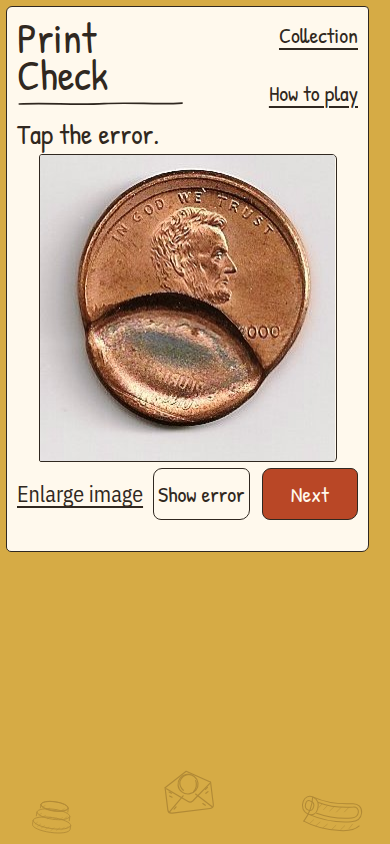
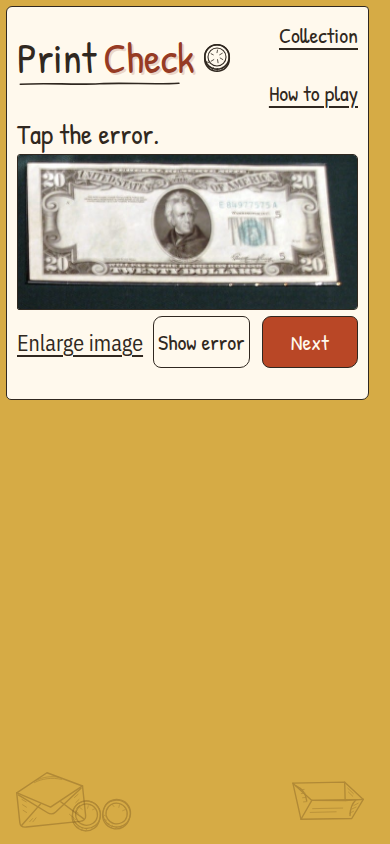
Refine title and asymmetric artwork

diff --git a/styles.css b/styles.css
@@ -62,14 +62,10 @@ body {
   opacity: 0.38;
   user-select: none;
 }
-.decoration-stack { top: 5%; left: 17px; width: 84px; transform: rotate(7deg); }
-.decoration-coins { top: 16%; right: -5px; width: 126px; transform: rotate(-9deg); }
-.decoration-envelope { top: 36%; left: -10px; width: 148px; transform: rotate(-6deg); }
-.decoration-roller { top: 27%; right: 12px; width: 106px; transform: rotate(8deg); }
-.decoration-coins-loose { top: 65%; left: 21px; width: 98px; transform: rotate(11deg); }
-.decoration-roll { top: 58%; right: -18px; width: 152px; transform: rotate(-7deg); }
-.decoration-stack-tall { bottom: -1%; left: 53px; width: 88px; transform: rotate(-6deg); }
-.decoration-fan { right: 15px; bottom: 12%; width: 116px; transform: rotate(5deg); }
+.decoration-envelope { bottom: 1.5%; left: -6px; width: 176px; transform: rotate(-5deg); }
+.decoration-coins-loose { bottom: -0.5%; left: 86px; width: 126px; transform: rotate(9deg); }
+.decoration-folded-bill { top: 8%; right: -12px; width: 158px; transform: rotate(7deg); }
+.decoration-stack { top: 39%; left: 25px; width: 90px; transform: rotate(-4deg); }
 
 button, a { font: inherit; }
 button { color: inherit; }
@@ -117,13 +113,42 @@ button:focus-visible, a:focus-visible, [tabindex]:focus-visible, summary:focus-v
   line-height: 0.88;
   text-decoration: none;
 }
-.site-name svg { width: 100%; height: 9px; margin-top: 5px; overflow: visible; }
+.title-line { display: inline-flex; align-items: center; gap: 9px; }
+.title-words { display: inline-flex; gap: 0.17em; white-space: nowrap; }
+.title-print { color: var(--ink); }
+.title-check { position: relative; display: inline-block; color: #963b24; }
+.title-check-ghost {
+  position: absolute;
+  inset: 0;
+  z-index: 0;
+  color: #963b24;
+  opacity: 0.18;
+  transform: translate(2px, 2px);
+  pointer-events: none;
+}
+.title-check-front { position: relative; z-index: 1; }
+.title-coin {
+  width: 43px;
+  height: 43px;
+  flex: 0 0 auto;
+  transform-origin: 50% 50%;
+  pointer-events: none;
+  user-select: none;
+}
+.title-coin.is-flipping { animation: title-coin-flip 400ms ease-in-out; }
+.site-name .title-underline { width: 74%; height: 9px; margin-top: 4px; overflow: visible; }
 .site-name path {
   fill: none;
   stroke: currentColor;
   stroke-width: 1.6;
   stroke-linecap: round;
   vector-effect: non-scaling-stroke;
+}
+
+@keyframes title-coin-flip {
+  0% { transform: rotateY(0deg); }
+  48% { transform: rotateY(90deg) scale(0.94); }
+  100% { transform: rotateY(360deg); }
 }
 
 .site-header nav {
@@ -483,26 +508,18 @@ dialog::backdrop { background: rgba(48, 40, 32, 0.5); }
 }
 
 @media (min-width: 1500px) {
-  .decoration-stack { left: 28px; width: 106px; }
-  .decoration-coins { right: -2px; width: 152px; }
-  .decoration-envelope { left: -5px; width: 166px; }
-  .decoration-roller { right: 25px; width: 128px; }
-  .decoration-coins-loose { left: 36px; width: 122px; }
-  .decoration-roll { right: -20px; width: 170px; }
-  .decoration-stack-tall { left: 76px; width: 110px; }
-  .decoration-fan { right: 25px; width: 138px; }
+  .decoration-envelope { left: 8px; width: 202px; }
+  .decoration-coins-loose { left: 117px; width: 142px; }
+  .decoration-folded-bill { right: 8px; width: 184px; }
+  .decoration-stack { top: 43%; left: 56px; width: 108px; }
 }
 
 @media (max-width: 1340px) and (min-width: 761px) {
   .decoration { opacity: 0.36; }
-  .decoration-stack { left: 4px; width: 76px; }
-  .decoration-coins { right: 3px; width: 80px; }
-  .decoration-envelope { left: 2px; width: 88px; }
-  .decoration-roller { right: 1px; width: 92px; }
-  .decoration-coins-loose,
-  .decoration-roll { display: none; }
-  .decoration-stack-tall { left: 5px; width: 76px; }
-  .decoration-fan { right: 1px; width: 88px; }
+  .decoration-envelope { left: -3px; width: 105px; }
+  .decoration-coins-loose { bottom: 0; left: 56px; width: 76px; }
+  .decoration-folded-bill { right: -3px; width: 96px; }
+  .decoration-stack { top: 42%; left: 7px; width: 68px; }
 }
 
 @media (max-width: 1000px) and (min-width: 681px) {
@@ -532,6 +549,9 @@ dialog::backdrop { background: rgba(48, 40, 32, 0.5); }
   }
   .site-header { min-height: 74px; align-items: center; gap: 12px; padding-top: max(4px, env(safe-area-inset-top)); }
   .site-name { min-height: 60px; font-size: 42px; }
+  .title-line { gap: 6px; }
+  .title-coin { width: 34px; height: 34px; }
+  .site-name .title-underline { width: 76%; margin-top: 3px; }
   .site-header nav { gap: 12px; flex-wrap: wrap; justify-content: flex-end; }
   .site-header nav a, .nav-button { font-size: 22px; }
   .game-screen { padding-top: 2px; }
@@ -583,12 +603,12 @@ dialog::backdrop { background: rgba(48, 40, 32, 0.5); }
 @media (max-width: 760px) {
   .page-decorations { position: absolute; z-index: 0; }
   .decoration { display: none; opacity: 0.38; }
-  .decoration-stack,
   .decoration-envelope,
-  .decoration-roll { display: block; }
-  .decoration-stack { top: auto; bottom: 8px; left: 24px; width: 58px; transform: rotate(8deg); }
-  .decoration-envelope { top: auto; bottom: 29px; left: calc(50% - 31px); width: 63px; transform: rotate(-7deg); }
-  .decoration-roll { top: auto; right: 5px; bottom: 3px; left: auto; width: 79px; transform: rotate(6deg); }
+  .decoration-coins-loose,
+  .decoration-folded-bill { display: block; }
+  .decoration-envelope { top: auto; bottom: 13px; left: 5px; width: 92px; transform: rotate(-6deg); }
+  .decoration-coins-loose { top: auto; bottom: 2px; left: 64px; width: 70px; transform: rotate(9deg); }
+  .decoration-folded-bill { top: auto; right: 4px; bottom: 13px; left: auto; width: 88px; transform: rotate(6deg); }
 }
 
 @media (max-height: 720px) {
@@ -600,6 +620,7 @@ dialog::backdrop { background: rgba(48, 40, 32, 0.5); }
 
 @media (prefers-reduced-motion: reduce) {
   *, *::before, *::after { scroll-behavior: auto !important; transition-duration: 0.001ms !important; }
+  .title-coin.is-flipping { animation: none; }
 }
 
 @media print {

diff --git a/tests/data.test.js b/tests/data.test.js
@@ -85,7 +85,7 @@ test('play screen is immediate and contains no fixed-session or scoring language
   assert.match(visible, />Tap the error\.</);
   assert.match(visible, />Next</);
   assert.equal(/Next (?:note|piece)/i.test(visible), false);
-  assert.equal(/>Check<|>Hint<|Zoom in|Zoom out|Reset view|number-grid|margin-doodle/i.test(visible), false);
+  assert.equal(/<button[^>]*>\s*(?:Check|Hint)\s*<|Zoom in|Zoom out|Reset view|number-grid|margin-doodle/i.test(visible), false);
   assert.match(visible, /Try another spot/);
   assert.match(visible, /Enlarge image/);
   assert.match(visible, /You found it!/);
@@ -120,17 +120,13 @@ test('the game reserves response space and uses measured viewport height', async
   assert.equal(/overflow:\s*hidden[^;]*;\s*\/\* page/i.test(styles), false);
 });
 
-test('the eight money-production drawings use the requested ink and remain inert', async () => {
+test('the asymmetric money drawings use the requested ink and remain inert', async () => {
   const { access, readFile } = await import('node:fs/promises');
   const artFiles = [
     'coin-stack.svg',
-    'tall-coin-stack.svg',
-    'overlapping-coins.svg',
     'loose-coins.svg',
-    'rolled-bill.svg',
-    'bill-fan.svg',
     'coin-envelope.svg',
-    'printing-roller.svg',
+    'folded-bill.svg',
   ];
   for (const file of artFiles) {
     await access(new URL(`../assets/art/${file}`, import.meta.url));
@@ -144,7 +140,27 @@ test('the eight money-production drawings use the requested ink and remain inert
   assert.match(styles, /opacity:\s*0\.38/);
   assert.match(styles, /pointer-events:\s*none/);
   assert.match(html, /aria-hidden="true"/);
-  assert.match(styles, /\.decoration-stack,\s*\n\s*\.decoration-envelope,\s*\n\s*\.decoration-roll \{ display: block; \}/);
+  assert.equal((html.match(/class="decoration /g) ?? []).length, 8);
+  assert.match(styles, /\.decoration-envelope \{ bottom:\s*1\.5%; left:\s*-6px;/);
+  assert.match(styles, /\.decoration-coins-loose \{ bottom:\s*-0\.5%; left:\s*86px;/);
+  assert.match(styles, /\.decoration-folded-bill \{ top:\s*8%; right:\s*-12px;/);
+  assert.match(styles, /\.decoration-stack \{ top:\s*39%; left:\s*25px;/);
+});
+
+test('the title uses two ink colors and a reduced-motion-safe Next flip', async () => {
+  const { access, readFile } = await import('node:fs/promises');
+  await access(new URL('../assets/art/title-coin.svg', import.meta.url));
+  const styles = await readFile(new URL('../styles.css', import.meta.url), 'utf8');
+  const html = `${await readFile(new URL('../index.html', import.meta.url), 'utf8')}\n${await readFile(new URL('../notes.html', import.meta.url), 'utf8')}`;
+  const scripts = `${await readFile(new URL('../src/game.js', import.meta.url), 'utf8')}\n${await readFile(new URL('../src/collection.js', import.meta.url), 'utf8')}`;
+  assert.match(html, /class="title-print">Print</);
+  assert.match(html, /class="title-check-front">Check</);
+  assert.match(styles, /\.title-check[^}]*color:\s*#963b24/s);
+  assert.match(styles, /translate\(2px, 2px\)/);
+  assert.match(styles, /animation:\s*title-coin-flip 400ms/);
+  assert.match(styles, /@media \(prefers-reduced-motion: reduce\)[\s\S]*\.title-coin\.is-flipping \{ animation:\s*none; \}/);
+  assert.match(scripts, /matchMedia\('\(prefers-reduced-motion: reduce\)'\)/);
+  assert.match(scripts, /classList\.add\('is-flipping'\)/);
 });
 
 test('museum crops have honest source wording and crop-aware enlargement', async () => {

diff --git a/index.html b/index.html
@@ -8,25 +8,24 @@
     <meta property="og:title" content="Print Check" />
     <meta property="og:description" content="Spot the error in real U.S. coins and paper currency." />
     <title>Print Check - Spot the error</title>
-    <link rel="stylesheet" href="styles.css?v=19" />
+    <link rel="stylesheet" href="styles.css?v=20" />
   </head>
   <body>
     <div class="page-decorations" aria-hidden="true">
-      <img class="decoration decoration-stack" src="assets/art/coin-stack.svg" alt="" />
-      <img class="decoration decoration-stack-tall" src="assets/art/tall-coin-stack.svg" alt="" />
-      <img class="decoration decoration-coins" src="assets/art/overlapping-coins.svg" alt="" />
-      <img class="decoration decoration-coins-loose" src="assets/art/loose-coins.svg" alt="" />
-      <img class="decoration decoration-roll" src="assets/art/rolled-bill.svg" alt="" />
-      <img class="decoration decoration-fan" src="assets/art/bill-fan.svg" alt="" />
       <img class="decoration decoration-envelope" src="assets/art/coin-envelope.svg" alt="" />
-      <img class="decoration decoration-roller" src="assets/art/printing-roller.svg" alt="" />
+      <img class="decoration decoration-coins-loose" src="assets/art/loose-coins.svg" alt="" />
+      <img class="decoration decoration-folded-bill" src="assets/art/folded-bill.svg" alt="" />
+      <img class="decoration decoration-stack" src="assets/art/coin-stack.svg" alt="" />
     </div>
     <div class="page-shell">
       <header class="site-header">
         <a class="site-name" href="index.html">
-          <span>Print Check</span>
-          <svg viewBox="0 0 150 9" aria-hidden="true" preserveAspectRatio="none">
-            <path d="M2 5 C28 3.7 52 6.2 78 4.6 C103 3.1 126 5.8 148 4.1" />
+          <span class="title-line">
+            <span class="title-words"><span class="title-print">Print</span> <span class="title-check"><span class="title-check-ghost" aria-hidden="true">Check</span><span class="title-check-front">Check</span></span></span>
+            <img class="title-coin" src="assets/art/title-coin.svg" alt="" aria-hidden="true" />
+          </span>
+          <svg class="title-underline" viewBox="0 0 150 9" aria-hidden="true" preserveAspectRatio="none">
+            <path d="M3 5.3 C27 3.6 51 6.1 75 4.7 C99 3.5 124 5.7 147 4.2" />
           </svg>
         </a>
         <nav aria-label="Primary navigation">
@@ -94,6 +93,6 @@
       <div id="full-image-gallery" class="full-image-gallery"></div>
     </dialog>
 
-    <script type="module" src="src/game.js?v=18"></script>
+    <script type="module" src="src/game.js?v=20"></script>
   </body>
 </html>

diff --git a/notes.html b/notes.html
@@ -6,25 +6,24 @@
     <meta name="theme-color" content="#d6ab45" />
     <meta name="description" content="The coins and bills currently available in Print Check." />
     <title>Coins and bills | Print Check</title>
-    <link rel="stylesheet" href="styles.css?v=19" />
+    <link rel="stylesheet" href="styles.css?v=20" />
   </head>
   <body class="collection-page">
     <div class="page-decorations" aria-hidden="true">
-      <img class="decoration decoration-stack" src="assets/art/coin-stack.svg" alt="" />
-      <img class="decoration decoration-stack-tall" src="assets/art/tall-coin-stack.svg" alt="" />
-      <img class="decoration decoration-coins" src="assets/art/overlapping-coins.svg" alt="" />
-      <img class="decoration decoration-coins-loose" src="assets/art/loose-coins.svg" alt="" />
-      <img class="decoration decoration-roll" src="assets/art/rolled-bill.svg" alt="" />
-      <img class="decoration decoration-fan" src="assets/art/bill-fan.svg" alt="" />
       <img class="decoration decoration-envelope" src="assets/art/coin-envelope.svg" alt="" />
-      <img class="decoration decoration-roller" src="assets/art/printing-roller.svg" alt="" />
+      <img class="decoration decoration-coins-loose" src="assets/art/loose-coins.svg" alt="" />
+      <img class="decoration decoration-folded-bill" src="assets/art/folded-bill.svg" alt="" />
+      <img class="decoration decoration-stack" src="assets/art/coin-stack.svg" alt="" />
     </div>
     <div class="page-shell">
       <header class="site-header">
         <a class="site-name" href="index.html">
-          <span>Print Check</span>
-          <svg viewBox="0 0 150 9" aria-hidden="true" preserveAspectRatio="none">
-            <path d="M2 5 C28 3.7 52 6.2 78 4.6 C103 3.1 126 5.8 148 4.1" />
+          <span class="title-line">
+            <span class="title-words"><span class="title-print">Print</span> <span class="title-check"><span class="title-check-ghost" aria-hidden="true">Check</span><span class="title-check-front">Check</span></span></span>
+            <img class="title-coin" src="assets/art/title-coin.svg" alt="" aria-hidden="true" />
+          </span>
+          <svg class="title-underline" viewBox="0 0 150 9" aria-hidden="true" preserveAspectRatio="none">
+            <path d="M3 5.3 C27 3.6 51 6.1 75 4.7 C99 3.5 124 5.7 147 4.2" />
           </svg>
         </a>
         <nav aria-label="Primary navigation">
@@ -51,6 +50,6 @@
         </section>
       </main>
     </div>
-    <script type="module" src="src/collection.js?v=18"></script>
+    <script type="module" src="src/collection.js?v=20"></script>
   </body>
 </html>

diff --git a/src/collection.js b/src/collection.js
@@ -6,8 +6,17 @@ const list = document.querySelector('#collection-list');
 const previousButton = document.querySelector('#previous-item');
 const nextButton = document.querySelector('#next-item');
 const allItemsLink = document.querySelector('.all-items-link');
+const titleCoin = document.querySelector('.title-coin');
 
 let currentIndex = -1;
+
+function flipTitleCoin() {
+  if (!titleCoin || window.matchMedia('(prefers-reduced-motion: reduce)').matches) return;
+  titleCoin.classList.remove('is-flipping');
+  requestAnimationFrame(() => titleCoin.classList.add('is-flipping'));
+}
+
+titleCoin?.addEventListener('animationend', () => titleCoin.classList.remove('is-flipping'));
 
 function identification(piece) {
   const name = piece.pieceKind === 'coin' ? piece.noteType : `${piece.denomination} ${piece.noteType}`;
@@ -160,7 +169,10 @@ function showAdjacent(offset) {
 }
 
 previousButton.addEventListener('click', () => showAdjacent(-1));
-nextButton.addEventListener('click', () => showAdjacent(1));
+nextButton.addEventListener('click', () => {
+  flipTitleCoin();
+  showAdjacent(1);
+});
 allItemsLink.addEventListener('click', (event) => {
   event.preventDefault();
   history.pushState(null, '', window.location.pathname);

diff --git a/src/game.js b/src/game.js
@@ -8,6 +8,7 @@ const sideImages = $('#game-side-images');
 const feedback = $('#feedback');
 const answerPanel = $('#answer-panel');
 const playActions = $('.play-actions');
+const titleCoin = $('.title-coin');
 
 const state = {
   queue: [],
@@ -30,6 +31,14 @@ function refillQueue() {
     [state.queue[0], state.queue[1]] = [state.queue[1], state.queue[0]];
   }
 }
+
+function flipTitleCoin() {
+  if (!titleCoin || window.matchMedia('(prefers-reduced-motion: reduce)').matches) return;
+  titleCoin.classList.remove('is-flipping');
+  requestAnimationFrame(() => titleCoin.classList.add('is-flipping'));
+}
+
+titleCoin?.addEventListener('animationend', () => titleCoin.classList.remove('is-flipping'));
 
 function setFeedback(message = '', tone = '') {
   feedback.textContent = message;
@@ -306,7 +315,10 @@ $('#reveal-button').addEventListener('click', () => {
   setFeedback();
   showAnswer();
 });
-$('#next-button').addEventListener('click', nextPiece);
+$('#next-button').addEventListener('click', () => {
+  flipTitleCoin();
+  nextPiece();
+});
 $('#enlarge-link').addEventListener('click', openFullImage);
 $('#help-button').addEventListener('click', () => $('#help-dialog').showModal());
 

diff --git a/README.md b/README.md
@@ -15,7 +15,8 @@ The interface is intentionally small and rights-aware. Ten specimens are playabl
 - An accessible enlarged-image dialog with one Close control
 - Image-relative crops, markers, generous answer targets, and separate precise reveal outlines that stay aligned through resizing
 - Dynamic viewport fitting with reserved answer space, safe-area support, and natural scrolling on short or enlarged-text layouts
-- Eight non-interactive hand-drawn money-production illustrations arranged through the desktop margins, with three smaller drawings in the mustard space below the phone layout
+- A fixed asymmetric margin composition: an open coin envelope with loose coins, a folded bill, and a separate coin stack
+- A two-color hand-drawn title with a decorative coin that flips once when Next is selected and stays still for reduced-motion users
 - A loading state and an always-available Next fallback for image failures
 - Static HTML, CSS, and JavaScript with no accounts, tracking, backend, or dependencies
 
